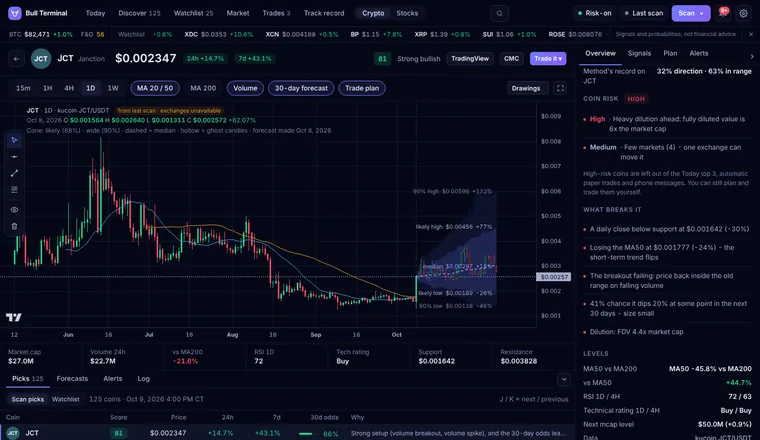
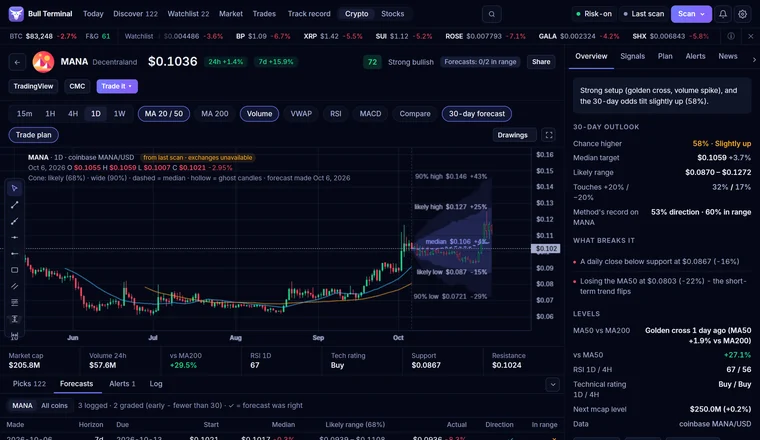
Publish waitlist site

diff --git a/index.html b/index.html
@@ -70,8 +70,8 @@
            srcset="img/hero-coin-760.webp 760w, img/hero-coin-1400.webp 1400w"
            sizes="(min-width: 960px) 620px, 100vw"
            width="1400" height="810" fetchpriority="high"
-           alt="Bull Terminal coin page: a candle chart with moving averages and a 30-day forecast cone, a trade plan, and a coin-risk panel listing liquidity and dilution warnings.">
-      <figcaption>Coin page: chart, 30-day odds, risk check and plan. Demo data.</figcaption>
+           alt="Bull Terminal coin page for Decentraland (MANA): a candle chart with moving averages and a 30-day forecast cone, the 30-day outlook, what breaks the setup and key levels.">
+      <figcaption>Coin page: chart, 30-day odds, what breaks it and key levels.</figcaption>
     </figure>
   </div>
 </section>
@@ -154,7 +154,7 @@
       <figure class="shot">
         <img src="img/today-760.webp" srcset="img/today-760.webp 760w, img/today-1400.webp 1400w"
              sizes="(min-width: 960px) 540px, 100vw" width="1400" height="810" loading="lazy" decoding="async"
-             alt="The Today page: market mood in one line and the top 3 setups, each with an entry zone, a stop and a first target.">
+             alt="The Today page: market mood in one line and the top 3 setups, each with a score and a one-line reason.">
         <figcaption>Today: the top 3 setups, each with a plan.</figcaption>
       </figure>
       <figure class="shot">
@@ -164,7 +164,7 @@
         <figcaption>Discover: every setup by score, risky coins flagged.</figcaption>
       </figure>
     </div>
-    <p class="fine center">Screenshots show the app with demo data, not real results.</p>
+    <p class="fine center">Screenshots are from a real scan on Oct 7, 2026 - not live prices, not financial advice.</p>
   </div>
 </section>
 
